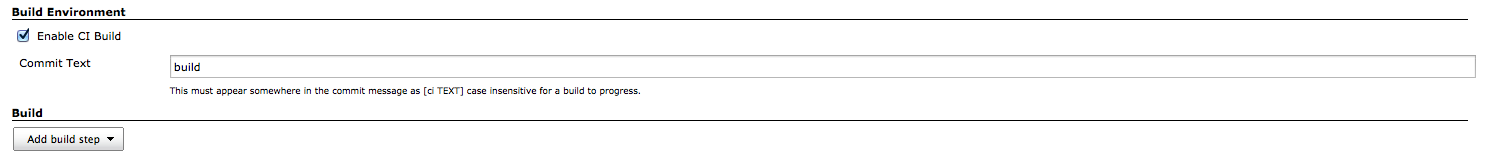
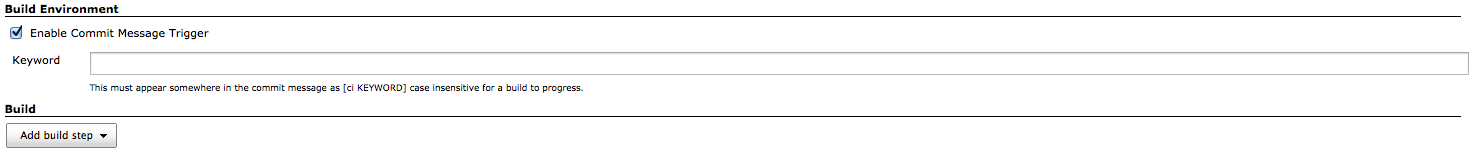
change plugin name

diff --git a/spec/models/commit_message_trigger_wrapper_spec.rb b/spec/models/commit_message_trigger_wrapper_spec.rb
@@ -1,10 +1,10 @@
 require 'spec_helper'
 
-describe CiBuildWrapper do
+describe CommitMessageTriggerWrapper do
   let(:build)    { double(native: double(getChangeSet: changeset), result: 'SUCCESS') }
   let(:launcher) { double }
   let(:listener) { double }
-  let(:wrapper)  { CiBuildWrapper.new({'build_text' => ' *build* '}) }
+  let(:wrapper)  { CommitMessageTriggerWrapper.new({'build_text' => ' *build* '}) }
 
   describe '#setup' do
     context 'when changeset is empty' do

diff --git a/spec/spec_helper.rb b/spec/spec_helper.rb
@@ -9,7 +9,7 @@ end
 $LOAD_PATH.unshift(File.join(File.dirname(__FILE__), '..'))
 $LOAD_PATH.unshift(File.dirname(__FILE__))
 
-require 'models/ci_build_wrapper'
+require 'models/commit_message_trigger_wrapper'
 
 RSpec.configure do |config|
   config.run_all_when_everything_filtered = true

diff --git a/models/commit_message_trigger_wrapper.rb b/models/commit_message_trigger_wrapper.rb
@@ -1,5 +1,5 @@
-class CiBuildWrapper < Jenkins::Tasks::BuildWrapper
-  display_name "Enable CI Build"
+class CommitMessageTriggerWrapper < Jenkins::Tasks::BuildWrapper
+  display_name "Enable Commit Message Trigger"
 
   attr_accessor :build_text
 

diff --git a/README.md b/README.md
@@ -1,6 +1,6 @@
-# Jenkins CI Build Plugin
+# Jenkins Commit Message Trigger Plugin
 
-This plugin allows builds to be made only for certain commit text in the commit message.
+This plugin allows builds to be made only for certain text (`[ci KEYWORD]`) in the commit message.
 
 Full example:  (Assuming you set commit text to 'merge'.)
 
@@ -9,8 +9,9 @@ $ git commit -m 'finish feature [ci merge]'
 ```
 
 This allows you when using a gitflow/hubflow to have Jenkins monitor feature branches but only build/merge
-develop when a feature has been completed.  This skips the step of creating a pull request in the general
-gitflow methodology.  You could also use [ci deploy] to cause a job which deploys to a staging server to run.
+develop when a feature has been completed by having the developer add `[ci build]` in the final commit.  
+This skips the step of creating a pull request in the general gitflow methodology.  You could also use 
+`[ci deploy]` to cause a job which deploys to a staging server to run.
 
 ## Installation
 
@@ -18,13 +19,14 @@ Install the plugin from the Jenkins Plugin Manager.
 
 ### Enabling ci-skip
 
-In the job configuration, check Enable CI Build and set the commit text to something.
+In the job configuration, check Enable Commit Message Trigger and set the keyword to the one you want to use
+for this build.
 
 ![A Screenshot](docs/enable.png)
 
 ### How it works
 
-If an incoming changeset commit message does not include `[ci TEXT]`, the build is skipped as `NOT_BUILT`.
+If an incoming changeset commit message does not include `[ci KEYWORD]`, the build is skipped as `NOT_BUILT`.
 If there is no changeset, it will be built.
 
 ## Development
@@ -32,7 +34,7 @@ If there is no changeset, it will be built.
 ```
 $ bundle install
 $ ./bin/start-jenkins
-$ open http://localhost:8083
+$ open http://localhost:8080
 ```
 
 ### Run Test
@@ -49,6 +51,6 @@ $ jpi build
 
 ## Changelog
 
-### Version 0.1 (September 29, 2014)
+### Version 0.1 (September 30, 2014)
 
 * initial release
